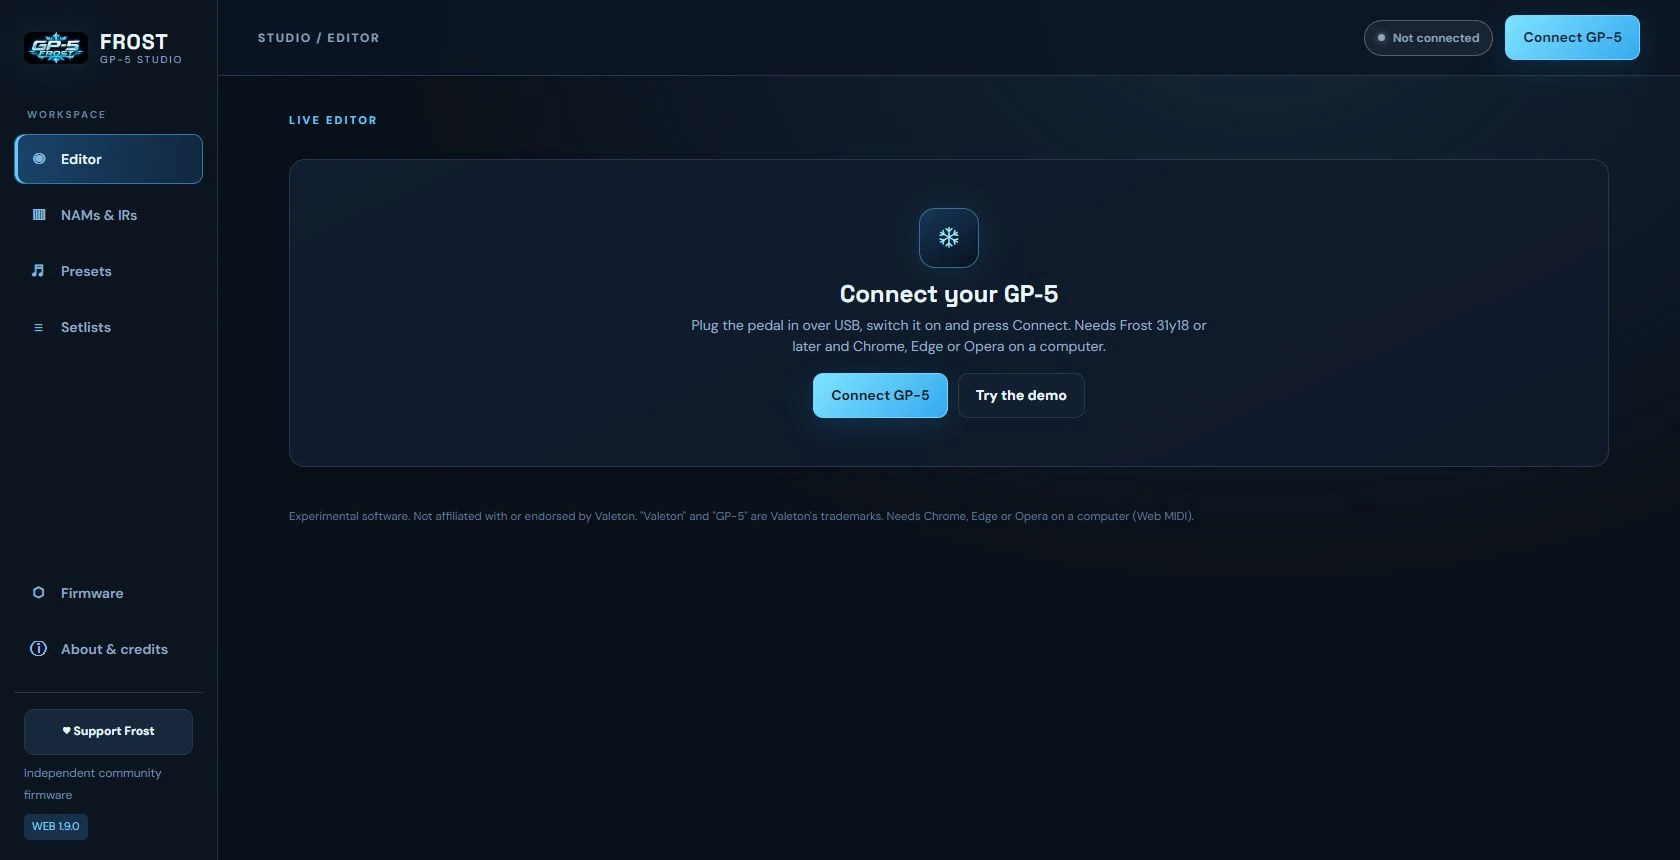
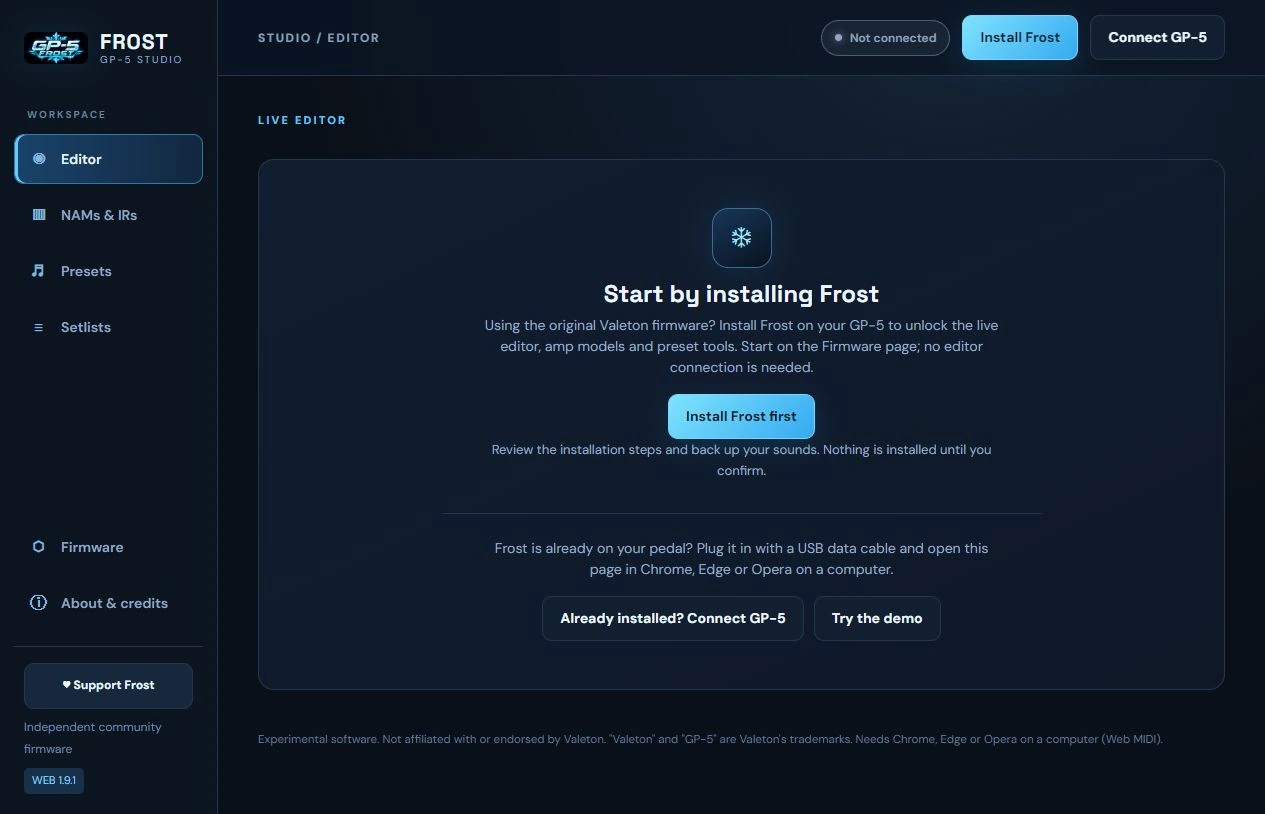
Guide stock firmware users through installation and detect existing Frost

diff --git a/web/app.js b/web/app.js
@@ -1,19 +1,21 @@
 // Frost web: connection, navigation, live editor, AMP models, cabinets, presets, firmware.
 // Device protocols live in pedal.js / store.js / live.js / firmware.js; this file is the page glue.
-import { MidiPedal, PedalFiles, checkRecord, recordLabel } from './pedal.js?v=1.9.0';
-import { Store, PRESETS, parsePresetFile, recordCrc, assetName } from './store.js?v=1.9.0';
-import { convertIr, readWav, irWav } from './ir.js?v=1.9.0';
-import { LiveView, loadCatalog } from './live.js?v=1.9.0';
-import { initFirmware, isBusy } from './firmware.js?v=1.9.0';
-import { SetlistView } from './setlist_view.js?v=1.9.0';
-import { simulatedPedal } from './sim.js?v=1.9.0';
-import { libraryRoute, fileKind, matchingSlots, useLibraryFile } from './model_library.js?v=1.9.0';
+import { MidiPedal, PedalFiles, checkRecord, recordLabel } from './pedal.js?v=1.9.1';
+import { Store, PRESETS, parsePresetFile, recordCrc, assetName } from './store.js?v=1.9.1';
+import { convertIr, readWav, irWav } from './ir.js?v=1.9.1';
+import { LiveView, loadCatalog } from './live.js?v=1.9.1';
+import { initFirmware, isBusy } from './firmware.js?v=1.9.1';
+import { SetlistView } from './setlist_view.js?v=1.9.1';
+import { simulatedPedal } from './sim.js?v=1.9.1';
+import { libraryRoute, fileKind, matchingSlots, useLibraryFile } from './model_library.js?v=1.9.1';
+import { detectFrost } from './onboarding.js?v=1.9.1';
 
-export const VERSION = '1.9.0';
+export const VERSION = '1.9.1';
 const $ = id => document.getElementById(id);
 const pad2 = i => String(i).padStart(2, '0');
 const state = {
   mode: 'off',        // off | connecting | frost | demo
+  checking: false, detectedFrost: false,
   op: null,           // a running device operation ('firmware', 'Writing MODEL 03', ...): blocks conflicting ones
   pedal: null, files: null, store: null, models: {}, cabs: {}, presets: {},
   record: null, nam: null, worker: null, cab: null, dirty: false, train: null,
@@ -27,13 +29,19 @@ function showStatus() {
   if (state.mode === 'connecting') return status('busy', 'Connecting…');
   if (state.mode === 'frost') return status('ok', 'Connected · Frost');
   if (state.mode === 'demo') return status('demo', 'Demo · simulated pedal');
+  if (state.detectedFrost) return status('ok', 'Frost detected · ready to connect');
   status($('status').dataset.kind === 'error' ? 'error' : 'off', $('status').dataset.kind === 'error' ? $('status-text').textContent : 'Not connected');
 }
 function toast(text, kind = '') {
   const t = document.createElement('div'); t.className = 'toast ' + kind; t.textContent = text; t.setAttribute('role', kind === 'bad' ? 'alert' : 'status');
   $('toasts').appendChild(t); setTimeout(() => t.remove(), kind === 'bad' ? 7000 : 4200);
 }
-function notice(text) { $('notice-text').textContent = text || ''; $('notice').hidden = !text; }
+function notice(text, { firmware = false, title = 'Something went wrong' } = {}) {
+  $('notice-text').textContent = text || ''; $('notice').hidden = !text;
+  $('notice-title').textContent = title;
+  $('notice').className = 'banner ' + (firmware ? 'warn' : 'bad');
+  $('notice-firmware').hidden = !text || !firmware;
+}
 $('notice-close').onclick = () => notice('');
 /** Promise<bool> (or the typed text when `input` is given, or the chosen numbers
  * when `selects` [{label, options: [[value, text]], value}] is given; null on cancel). */
@@ -132,6 +140,7 @@ const setlists = new SetlistView($('setlist-editor'), {
   download: (text, name) => save(new TextEncoder().encode(text), name),
 });
 async function connect() {
+  if (state.checking || state.mode === 'connecting') return;
   if (state.op || isBusy()) { toast('Wait until the running operation finishes.', 'bad'); return; }
   disconnect(); notice(''); state.mode = 'connecting'; showStatus(); updateButtons();
   try {
@@ -139,8 +148,11 @@ async function connect() {
     const who = await files.who();
     if (!who || who.firmware !== 'frost') {
       pedal.close(); state.mode = 'off';
-      status('error', who ? 'Stock firmware' : 'No answer');
-      notice(who ? 'The pedal is connected but not running Frost. Install it from the Firmware page.' : 'The pedal did not answer. Switch it off and on, then connect again.');
+      status('error', who ? 'Frost not installed' : 'Frost not detected');
+      notice(who
+        ? 'This pedal is not running Frost. Open Firmware to install it, then return here to connect the editor. Nothing is installed until you confirm.'
+        : 'The pedal did not answer the Frost editor. Still using Valeton stock firmware? Open Firmware to install Frost first. If Frost is already installed, check power and USB, close other pedal editors, then reconnect.',
+        { firmware: true, title: who ? 'Install Frost to use the editor' : 'Need help connecting?' });
       if (who) go('firmware');
       return;
     }
@@ -160,7 +172,7 @@ function disconnect() {
   for (const kind of ['amps', 'cabs']) {
     delete importTargets[kind]; delete uploadedTargets[kind]; $(libraryPrefix(kind) + '-result').hidden = true;
   }
-  Object.assign(state, { pedal: null, files: null, store: null, mode: 'off', models: {}, cabs: {}, presets: {}, dirty: false });
+  Object.assign(state, { pedal: null, files: null, store: null, mode: 'off', detectedFrost: false, models: {}, cabs: {}, presets: {}, dirty: false });
   setlists.attach(null, {}); setLivePanel(); renderLists(); updateButtons();
 }
 function lost() {
@@ -384,7 +396,7 @@ $('amp-name').oninput = () => { $('amp-name').value = $('amp-name').value.replac
 $('amp-convert').onclick = () => {
   if (!state.nam || state.worker) return;
   const name = ($('amp-name').value || 'AMP').slice(0, 15), workers = Math.max(1, Math.min(4, (navigator.hardwareConcurrency || 4) - 1));
-  const w = new Worker(new URL('./convert_worker.js?v=1.9.0', import.meta.url), { type: 'module' }); state.worker = w;
+  const w = new Worker(new URL('./convert_worker.js?v=1.9.1', import.meta.url), { type: 'module' }); state.worker = w;
   const t0 = performance.now(), prog = (s, v) => { $('amp-progress').hidden = false; $('amp-bar').style.width = `${Math.round(100 * v)}%`; $('amp-stage').textContent = `${s} · ${Math.round((performance.now() - t0) / 1000)} s`; };
   const stop = () => { state.worker = null; w.terminate(); updateButtons(); };
   prog('Starting', 0);
@@ -654,13 +666,33 @@ $('restore-file').onchange = async e => {
 };
 
 // ---------- enable/disable with reasons ----------
+async function detectInstalledFrost() {
+  const idle = () => state.mode === 'off' && !state.op && !isBusy();
+  if (state.checking || !idle()) return;
+  state.checking = true; updateButtons();
+  try {
+    const found = await detectFrost(navigator, idle);
+    if (idle()) state.detectedFrost = found;
+  } finally { state.checking = false; showStatus(); updateButtons(); }
+}
 function updateButtons() {
   const on = !!state.store, op = state.op || (isBusy() ? 'firmware' : null), conv = !!state.worker;
   const offline = state.mode === 'demo' ? 'The demo cannot write. Connect a pedal running Frost.' : 'Connect a pedal running Frost to write.';
   const why = (id, text) => { $(id).textContent = text || ''; };
-  $('connect').disabled = !!op || state.mode === 'connecting';
+  const returning = state.detectedFrost || state.mode === 'frost';
+  $('connect').disabled = !!op || state.checking || state.mode === 'connecting';
   $('connect').textContent = state.mode === 'frost' ? 'Reconnect' : 'Connect GP-5';
-  $('demo').disabled = !!op;
+  $('connect').className = 'btn ' + (returning ? 'primary' : 'ghost');
+  $('install-start').hidden = returning;
+  $('onboarding-title').textContent = returning ? 'Frost detected on your GP-5' : 'Start by installing Frost';
+  $('onboarding-install').hidden = $('onboarding-install-note').hidden = returning;
+  $('onboarding-intro').hidden = returning;
+  $('onboarding-existing').classList.toggle('onboarding-existing', !returning);
+  const welcomeConnect = document.querySelector('[data-connect]');
+  welcomeConnect.disabled = $('connect').disabled;
+  welcomeConnect.textContent = returning ? 'Connect GP-5' : 'Already installed? Connect GP-5';
+  welcomeConnect.className = 'btn ' + (returning ? 'primary' : 'ghost');
+  $('demo').disabled = !!op || state.checking;
   $('amp-convert').disabled = !state.nam || conv || !!state.record; $('amp-cancel').hidden = !conv;
   $('amp-download').hidden = !(state.converted && state.record) || conv;
   $('amp-convert').hidden = !state.nam;
@@ -691,3 +723,5 @@ function updateButtons() {
 }
 renderLists(); setLivePanel(); updateButtons();
 if (new URLSearchParams(location.search).has('demo')) demo(false);
+else detectInstalledFrost();
+addEventListener('focus', () => detectInstalledFrost());

diff --git a/web/index.html b/web/index.html
@@ -10,7 +10,7 @@
 <link rel="preconnect" href="https://fonts.googleapis.com">
 <link rel="preconnect" href="https://fonts.gstatic.com" crossorigin>
 <link rel="stylesheet" href="https://fonts.googleapis.com/css2?family=DM+Sans:wght@400;500;600;700&family=Space+Grotesk:wght@500;600;700&display=swap">
-<link rel="stylesheet" href="style.css?v=1.9.0">
+<link rel="stylesheet" href="style.css?v=1.9.1">
 </head>
 <body>
 <a class="skip" href="#content">Skip to content</a>
@@ -44,12 +44,13 @@
     <div class="breadcrumb" id="breadcrumb">STUDIO / LIVE EDITOR</div>
     <div class="topright">
       <div class="status" id="status" data-kind="off" role="status" aria-live="polite"><span class="dot"></span><span id="status-text">Not connected</span></div>
-      <button class="btn primary" id="connect">Connect GP-5</button>
+      <a class="btn primary" id="install-start" href="#firmware">Install Frost</a>
+      <button class="btn ghost" id="connect">Connect GP-5</button>
     </div>
   </header>
 
   <main class="container" id="content" tabindex="-1">
-    <div id="notice" class="banner bad" role="alert" hidden><div><strong>Something went wrong</strong><span id="notice-text"></span></div><button class="btn ghost small" id="notice-close">Dismiss</button></div>
+    <div id="notice" class="banner bad" role="alert" hidden><div><strong id="notice-title">Something went wrong</strong><span id="notice-text"></span><div class="actions" id="notice-firmware" hidden><a class="btn primary small" href="#firmware">Open Firmware</a></div></div><button class="btn ghost small" id="notice-close">Dismiss</button></div>
 
     <!-- Live editor -->
     <section id="view-live" class="view" aria-labelledby="h-live">
@@ -75,9 +76,14 @@
 
       <div id="live-empty" class="panel emptystate">
         <div class="emptyicon" aria-hidden="true">❄</div>
-        <h2>Connect your GP-5</h2>
-        <p>Plug the pedal in over USB, switch it on and press Connect. Needs Frost 31y18 or later and Chrome, Edge or Opera on a computer.</p>
-        <div class="actions center"><button class="btn primary" data-connect>Connect GP-5</button><button class="btn ghost" id="demo">Try the demo</button></div>
+        <h2 id="onboarding-title">Start by installing Frost</h2>
+        <p id="onboarding-intro">Using the original Valeton firmware? Install Frost on your GP-5 to unlock the live editor, amp models and preset tools. Start on the Firmware page; no editor connection is needed.</p>
+        <div class="actions center" id="onboarding-install"><a class="btn primary" href="#firmware">Install Frost first</a></div>
+        <p class="hint" id="onboarding-install-note">Review the installation steps and back up your sounds. Nothing is installed until you confirm.</p>
+        <div class="onboarding-existing" id="onboarding-existing">
+          <p>Frost is already on your pedal? Plug it in with a USB data cable and open this page in Chrome, Edge or Opera on a computer.</p>
+          <div class="actions center"><button class="btn ghost" data-connect>Already installed? Connect GP-5</button><button class="btn ghost" id="demo">Try the demo</button></div>
+        </div>
       </div>
 
       <div id="live-panel" class="studio-layout" hidden>
@@ -240,6 +246,7 @@
     <!-- Firmware -->
     <section id="view-firmware" class="view" aria-labelledby="h-firmware" hidden>
       <div class="heading"><div><div class="eyebrow">Install &amp; recover</div><h1 id="h-firmware">Firmware.</h1><p>Install Frost, or go back to Valeton's firmware. Nothing is installed until you confirm.</p></div></div>
+      <div class="banner"><div><strong>Coming from Valeton stock firmware?</strong><span>Start here: plug in your powered GP-5 with a USB data cable, back up stock presets in Valeton's editor, then close that editor. Use Install Frost below, or choose your Frost .bin file. You do not need to press Connect GP-5 first; that button connects the live editor after Frost is installed.</span></div></div>
       <div class="banner warn"><div><strong>⚠ Keep the pedal connected and powered</strong><span>Installing replaces the pedal's firmware and takes about 90 seconds. The pedal enters update mode by itself. The factory loader is never overwritten, so an interrupted install can always be repeated.</span></div></div>
       <div class="grid2">
         <div class="panel pad">
@@ -308,6 +315,6 @@
   <div class="limithint">REMOVE AN EFFECT</div>
   <button class="btn small ghost" id="limit-close" type="button">OK</button>
 </div>
-<script type="module" src="app.js?v=1.9.0"></script>
+<script type="module" src="app.js?v=1.9.1"></script>
 </body>
 </html>

diff --git a/web/onboarding.js b/web/onboarding.js
@@ -1,0 +1,32 @@
+// Read-only identity check. Never prompts for permission or starts an editor session.
+import { buildSysex, parseSysex } from './pedal.js?v=1.9.1';
+
+export async function detectFrost(nav = navigator, idle = () => true, timeout = 1500) {
+  if (!nav.requestMIDIAccess || !nav.permissions?.query || !idle()) return false;
+  try {
+    const permission = await nav.permissions.query({ name: 'midi', sysex: true });
+    if (permission.state !== 'granted' || !idle()) return false;
+    const access = await nav.requestMIDIAccess({ sysex: true });
+    if (!idle()) return false;
+    const ports = map => [...map.values()].filter(p => p.state === 'connected' && /GP-5/.test(p.name));
+    const outs = ports(access.outputs), ins = ports(access.inputs);
+    const out = outs.find(p => /Open FW/.test(p.name)) || outs[0];
+    const inp = ins.find(p => p.name === out?.name) || ins.find(p => /Open FW/.test(p.name)) || ins[0];
+    if (!out || !inp) return false;
+    return await new Promise(resolve => {
+      let timer;
+      const finish = found => {
+        clearTimeout(timer); inp.removeEventListener('midimessage', received); resolve(found);
+      };
+      const received = event => {
+        const reply = parseSysex(event.data);
+        if (!reply || reply.length < 7 || reply[0] !== 0x7e || reply[1] !== 0x0d || reply[2] !== 1) return;
+        let end = 6; while (end < reply.length && reply[end]) end++;
+        finish(new TextDecoder().decode(reply.subarray(6, end)) === 'frost');
+      };
+      inp.addEventListener('midimessage', received);
+      timer = setTimeout(() => finish(false), timeout);
+      try { out.send(buildSysex([0x7e, 0x0d])); } catch { finish(false); }
+    });
+  } catch { return false; } // Denied, unsupported or unplugged: keep the first-install path.
+}

diff --git a/web/store.js b/web/store.js
@@ -5,7 +5,7 @@
 //   AMP models: firmware FFCM, amp-0..amp-6, 10 x 400-byte records (MODEL 0..63)
 //   presets:    firmware FPST, pst-0..pst-3, 15 x 264-byte records (1..60)
 // Legacy single amp-NN files (Frost 31s/31t3) are migrated into the groups.
-import { FILES, crc32, fileHeader, parseHeader, recordLabel, checkRecord } from './pedal.js?v=1.9.0';
+import { FILES, crc32, fileHeader, parseHeader, recordLabel, checkRecord } from './pedal.js?v=1.9.1';
 
 export const GROUPS = {
   amp: { firm: 0x4d434646, prefix: 'amp-', files: 7, slots: 10, size: 400 },

diff --git a/web/setlist_view.js b/web/setlist_view.js
@@ -1,4 +1,4 @@
-import { emptySetlist, encodeSetlist, SetlistStore } from './setlist.js?v=1.9.0';
+import { emptySetlist, encodeSetlist, SetlistStore } from './setlist.js?v=1.9.1';
 const el = (tag, text, cls) => { const e = document.createElement(tag); if (text != null) e.textContent = text; if (cls) e.className = cls; return e; };
 export class SetlistView {
   constructor(root, ui) {

diff --git a/web/style.css b/web/style.css
@@ -198,6 +198,7 @@ select {
 }
 .topright {
   display: flex;
+  flex-wrap: wrap;
   align-items: center;
   gap: 12px;
 }
@@ -542,6 +543,12 @@ label {
   max-width: 520px;
   margin: 0 auto;
   color: #9badc4;
+}
+.onboarding-existing {
+  max-width: 600px;
+  margin: 32px auto 0;
+  padding-top: 24px;
+  border-top: 1px solid var(--stroke);
 }
 .emptyicon {
   width: 60px;

diff --git a/web/setlist.js b/web/setlist.js
@@ -1,4 +1,4 @@
-import { crc32 } from './pedal.js?v=1.9.0';
+import { crc32 } from './pedal.js?v=1.9.1';
 export const SETLIST_BYTES = 3968;
 const enc = new TextEncoder(), dec = new TextDecoder();
 export const emptySetlist = () => ({ format: 'frost-setlist', version: 1, name: 'My setlist', songs: [], order: [] });

diff --git a/web/ir.js b/web/ir.js
@@ -1,4 +1,4 @@
-import { crc32 } from './pedal.js?v=1.9.0';
+import { crc32 } from './pedal.js?v=1.9.1';
 // Port of tools/cab_ir.py: RIFF decode, mono average, Blackman-windowed sinc,
 // 10% onset trim, 512 taps, end fade, response-peak calibration / L1 <= 7.999.
 export function irResponseGain(h) {

diff --git a/tests/test_web_modules.py b/tests/test_web_modules.py
@@ -7,6 +7,14 @@ ROOT=Path(__file__).resolve().parents[1]
 
 class WebModuleTests(unittest.TestCase):
     @unittest.skipUnless(shutil.which('node'),'Node.js needed')
+    def test_read_only_frost_detection(self):
+        subprocess.run(['node',str(ROOT/'tests/js/onboarding.mjs')],cwd=ROOT,check=True,capture_output=True,text=True)
+
+    @unittest.skipUnless(shutil.which('node'),'Node.js needed')
+    def test_stock_firmware_connection_guidance(self):
+        subprocess.run(['node',str(ROOT/'tests/js/connection_guidance.mjs')],cwd=ROOT,check=True,capture_output=True,text=True)
+
+    @unittest.skipUnless(shutil.which('node'),'Node.js needed')
     def test_combined_model_library(self):
         subprocess.run(['node',str(ROOT/'tests/js/model_library.mjs')],cwd=ROOT,check=True,capture_output=True,text=True)
 

diff --git a/docs/Website Guide.md b/docs/Website Guide.md
@@ -10,13 +10,34 @@ Screenshots show the current local website source. The Editor and library
 images use a documentation demo with synthetic preset, model and cabinet
 names; these sample stored files are not part of **Try the demo**. No private
 captures or pedal data are shown.
+The **Frost detected** screenshot uses a documentation-only identity fixture;
+it illustrates the returning-user screen, not a physical detection test.
 
 ## Connect or try the demo
 
+**Still using Valeton stock firmware?** The welcome panel starts with
+**Install Frost first**, its main blue button. The header also offers
+**Install Frost**. Both open **Firmware**. Back up stock presets with
+Valeton's editor, close it, then install from that page. **Connect GP-5**
+connects the live editor after Frost is installed; it is not required before
+installation. The installer still asks you to confirm before writing.
+
+If you have already allowed MIDI/SysEx access, the page checks the connected
+pedal for a Frost identity reply when opened or brought back into focus.
+When confirmed, it shows **Frost detected on your GP-5** and makes
+**Connect GP-5** the main button. The check only reads identity; click Connect
+to start editing. It does not prompt for permission on arrival, and a missing
+reply keeps the installation guidance without claiming stock was detected.
+
 1. Use desktop Chrome or Edge. Power the pedal and connect a USB data cable.
 2. Close other editors and tabs connected to the GP-5.
-3. Open Frost Studio, click **Connect GP-5** and allow MIDI/SysEx access.
+3. Open Frost Studio, click **Already installed? Connect GP-5** below the
+   installation section (or **Connect GP-5** in the header) and allow MIDI/SysEx access.
 4. Wait until the connection status shows the pedal is connected.
+
+If the pedal does not answer the Frost editor, the connection notice offers
+**Open Firmware**, alongside reconnect guidance for pedals already running
+Frost. A missing reply alone does not confirm that the pedal runs stock firmware.
 
 The status bar distinguishes disconnected, connecting, connected, busy, demo
 and error states. During file transfers, wait for the operation to finish
@@ -32,7 +53,9 @@ as described in the [build guide](Build%20Firmware.md);
 recording and playback use a computer audio application. BLE MIDI does not
 stream phone audio.
 
-<p align="center"><img src="../assets/docs/website-connect.webp" alt="Frost Studio before connecting: Connect GP-5 or Try the demo" width="760"><br><sub>Frost Studio before connecting: Connect GP-5 or Try the demo</sub></p>
+<p align="center"><img src="../assets/docs/website-connect.webp" alt="Frost Studio welcome screen with Install Frost first as the main blue button and Already installed? Connect GP-5 below" width="760"><br><sub>First visit: install Frost first; connecting an existing Frost pedal is the secondary action</sub></p>
+
+<p align="center"><img src="../assets/docs/website-frost-detected.webp" alt="Frost detected on your GP-5, with Connect GP-5 as the main blue button and no install prompt" width="760"><br><sub>Frost confirmed: Connect GP-5 becomes the main action (simulated identity for documentation)</sub></p>
 
 ## Find your way around
 
@@ -322,6 +345,8 @@ Use this page to select a local `.bin`, review its identity/sections and
 confirm installation. A bundled Install Frost button is available only when
 that site copy includes a firmware download. The installer also accepts the
 correct official Valeton image you supply for restoring stock firmware.
+
+<p align="center"><img src="../assets/docs/website-firmware.webp" alt="Firmware page explaining that stock-firmware users can install directly without connecting the editor first" width="760"><br><sub>Install from stock firmware here; this local source copy has no bundled firmware, so it shows the file-based installation path</sub></p>
 
 Follow the [Installation Guide](Installation%20Guide.MD) for backups,
 installation, verification and recovery. Keep power/USB connected until the
